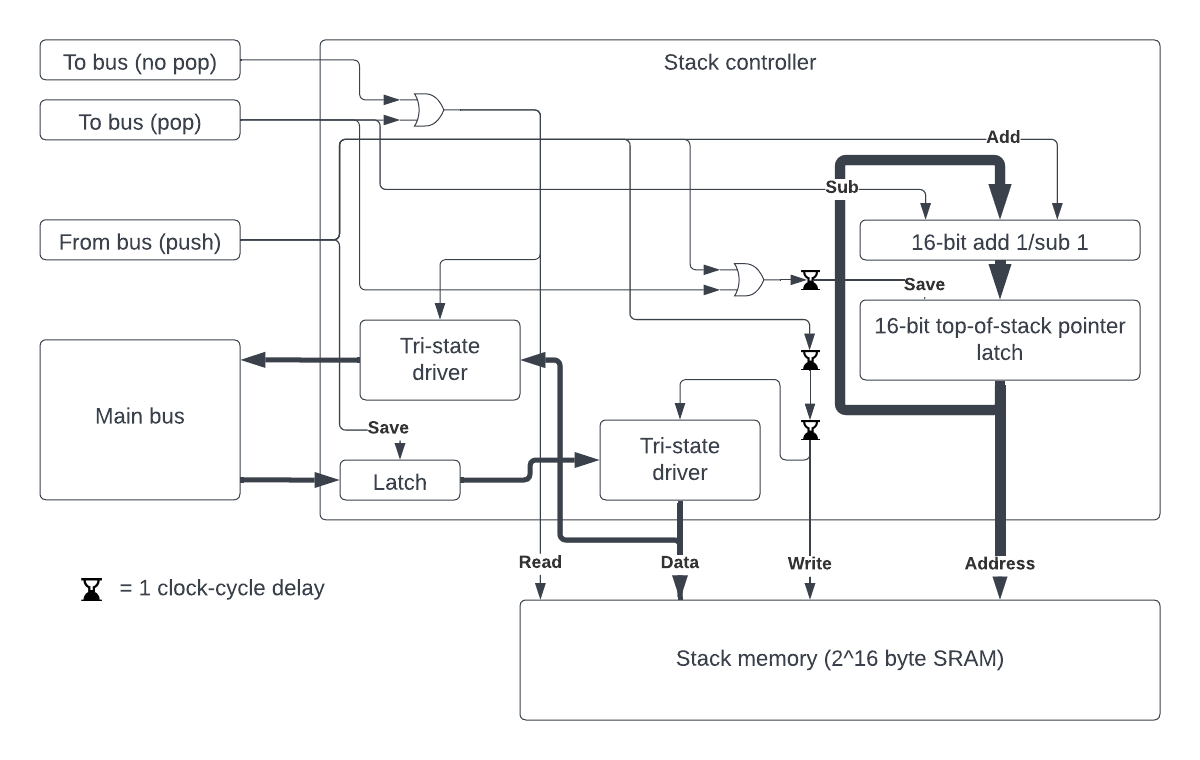
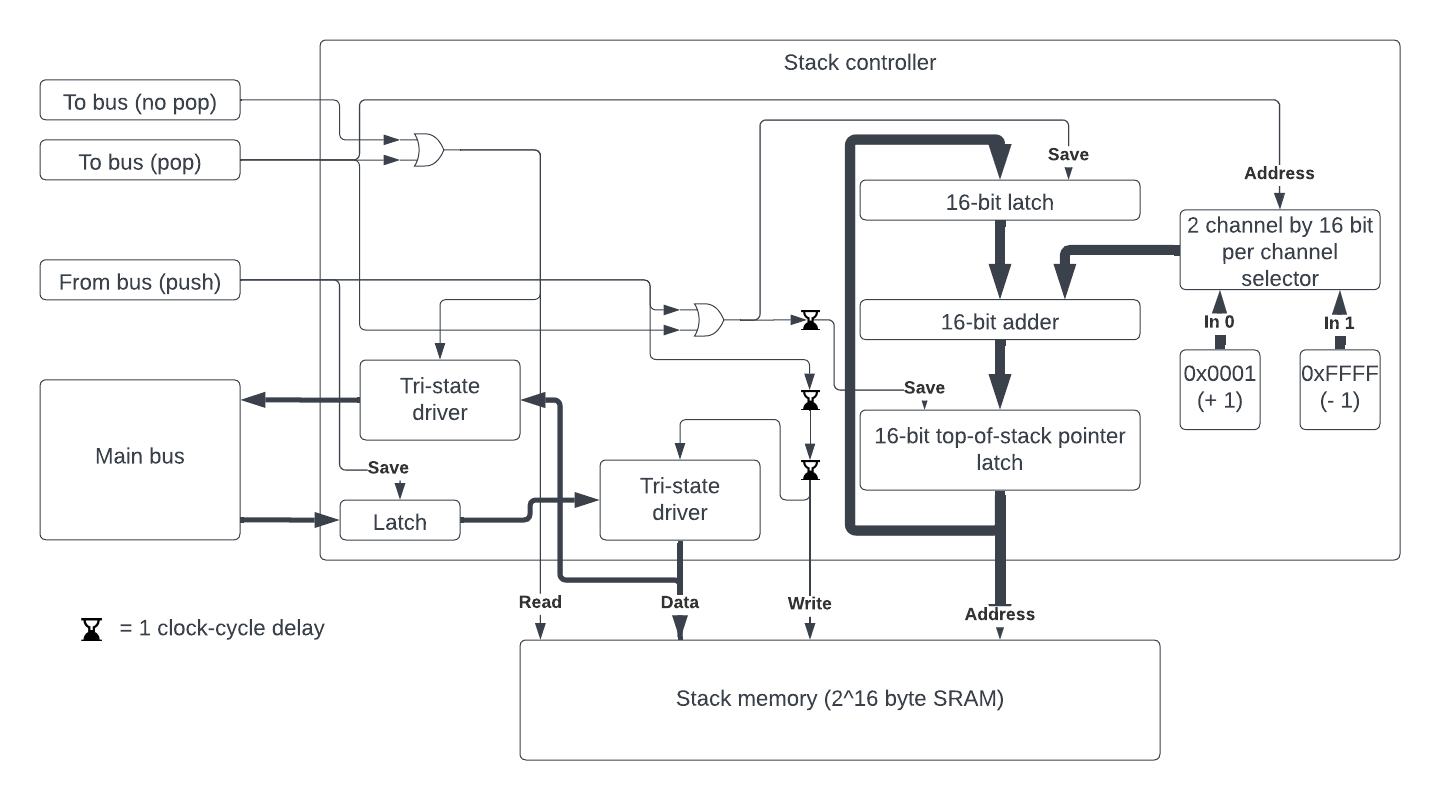
Improved stack controller

diff --git a/README.md b/README.md
@@ -5,7 +5,7 @@ I got the idea for this from my 1989 HP 48SX calculator which also uses RPN.
 
 # Instructions
 
-1 or more byte instructions interpreted by the control unit. These may use arguments from the stack. The first 4 bits of the first instruction byte will address the below list of instructions. The next 4 bits will be used for addressing the ALU functions when using the ALU, and possibly other things.
+1 or more byte instructions interpreted by the control unit. These may use arguments from the stack. The first 4 bits of the first instruction byte will address the below list of instructions. The next 4 bits will be used for addressing the ALU functions.
 
 Here's the current list of instructions:
 
@@ -13,7 +13,8 @@ Here's the current list of instructions:
 1. Push following byte to stack
 2. GOTO - Uses the next 2 bytes of the program memory to set the execution pointer (I decided to not use arguments from the stack because all GOTO pointers will be determined by the compiler and won't need to be calculated at runtime.)
 3. GOTO-IF - Pops 1 byte from stack, if the LSB is 1 then does a GOTO, otherwise does nothing
-4. Stops the clock
+4. Set stack offset TODO
+7. Stops the clock
 
 # Bus
 
@@ -37,6 +38,10 @@ Devices that can set the state of the bus:
 # The Stack
 
 The stack will simply be a piece of memory seperate from the program memory managed by hardware. Whenever the stack controller is given write access to the bus it will write the byte that is currently at the top-of-stack pointer and then it will decrement the pointer.
+
+## Stack offset
+
+The stack offset will be a 16-bit number subtracted from the top-of-stack pointer **only during non-pop reads**. It will be set by the main controller from program memory.
 
 # Flow Control
 
